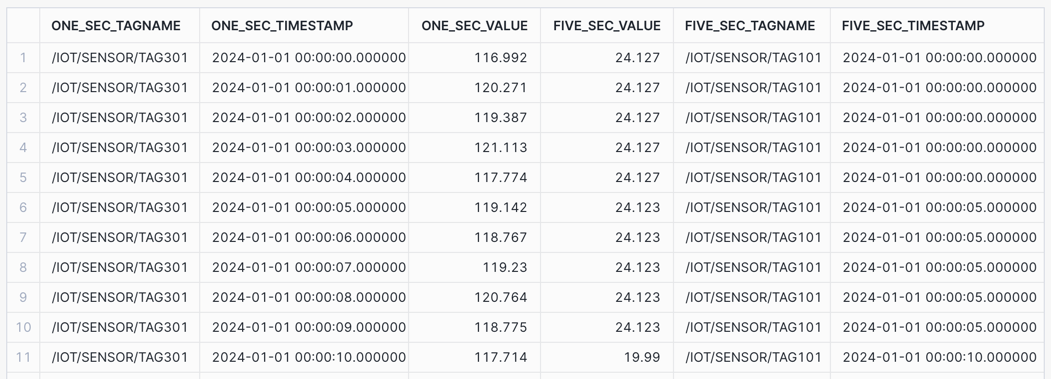
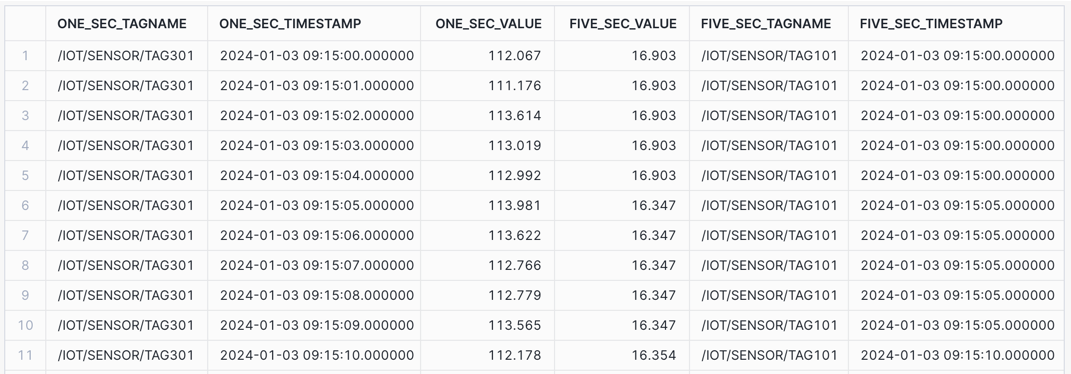
Quickstart updates

diff --git a/site/sfguides/src/getting_started_with_time_series_using_snowflake_streaming_sis_ml_notebooks/getting_started_with_time_series_using_snowflake_streaming_sis_ml_notebooks.md b/site/sfguides/src/getting_started_with_time_series_using_snowflake_streaming_sis_ml_notebooks/getting_started_with_time_series_using_snowflake_streaming_sis_ml_notebooks.md
@@ -30,7 +30,7 @@ Upon completing this quickstart lab, you will have learned how to perform time s
 
 ### What You'll Build
 
-By the end of this lab you will have an **end-to-end streaming Time Series Analysis solution**, with a front-end application deployed using Streamlit in Snowflake.
+By the end of this lab you will have an **end-to-end streaming Time Series Analysis solution**, with a front-end application deployed using **Streamlit in Snowflake**.
 
 <img src="assets/streamlit_video_summary.gif" />
 
@@ -56,7 +56,7 @@ The first step is to create a fork of the Lab GitHub repository.
 
 1. In a web browser log into your [Github](https://github.com/) account.
 
-2. Open [Getting Started with Time Series in Snowflake associated GitHub Repository](https://github.com/Snowflake-Labs/sfguide-getting-started-with-time-series-using-snowflake-streaming-sis-ml-notebooks). 
+2. Open [Getting Started with Time Series Analytics for IoT in Snowflake associated GitHub Repository](https://github.com/Snowflake-Labs/sfguide-getting-started-with-time-series-using-snowflake-streaming-sis-ml-notebooks). 
     - This repository contains all the code you need to successfully complete this quickstart guide.
 
 3. Click on the **"Fork"** button near the top right.
@@ -140,7 +140,7 @@ To activate the virtual environment:
 The terminal prompt should now show a prefix `(hol-timeseries)` to confirm the **hol-timeseries** virtual environment is activated.
 
 
-### Step 4 - Update Snowflake Account Connection Identifiers in Lab Files
+### Step 4 - Update Snowflake Connection Account Identifiers in Lab Files
 
 1. Login to your Snowflake account using a browser 
 
@@ -157,7 +157,8 @@ The terminal prompt should now show a prefix `(hol-timeseries)` to confirm the *
 ```sql
 SELECT SYSTEM$ALLOWLIST();
 
--- Note down your Snowflake account identifier details
+-- Note down your Snowflake account identifier host detail
+-- where "type":"SNOWFLAKE_DEPLOYMENT_REGIONLESS"
 -- <account_identifier>.snowflakecomputing.com
 ```
 
@@ -220,7 +221,7 @@ SELECT SYSTEM$ALLOWLIST();
 
 
 ### Step 7 - Retrieve the Snowflake Public Key
-As part of the GitHub Codespace setup, an OpenSSL Private Key-pair was generated in the VS Code `keys` directory.
+As part of the GitHub Codespace setup, an **OpenSSL Private Key-pair** will be generated in the **VS Code** `keys` directory.
 
 **Copy** the **PUBLIC KEY** value from the `keys/rsa_key.pub` file. This will be needed in the setup worksheet.
 
@@ -255,7 +256,7 @@ As part of the GitHub Codespace setup, an OpenSSL Private Key-pair was generated
 ## Setup Snowflake Resources
 Duration: 5
 
-Create the foundational Snowflake Objects for this lab.
+#### Create the Foundational Snowflake Objects for this Lab
 
 This includes:
 - Role: **ROLE_HOL_TIMESERIES** - role used for working throughout the lab
@@ -383,9 +384,9 @@ SETUP SCRIPT COMPLETED
 ## Snowpipe Streaming Ingestion
 Duration: 10
 
-With the foundational objects setup, we can now deploy a staging table to stream time series data into Snowflake via a Snowpipe Streaming client.
+With the foundational objects setup, we can now **deploy a staging table** to stream time series data into Snowflake via a Snowpipe Streaming client.
 
-For this lab a Java IOT Simulator Client application has been created to stream IoT sensor readings into Snowflake.
+For this lab a **Java IOT Simulator Client** application has been created to stream IoT sensor readings into Snowflake.
 
 <img src="assets/snowpipe_streamingest.png" />
 
@@ -429,7 +430,7 @@ The IoT data will be streamed into Snowflake in a similar [schema format as Kafk
 
 ### INFO: Snowpipe Streaming Ingest Client SDK
 
-Snowflake provides an [Ingest Client SDK](https://mvnrepository.com/artifact/net.snowflake/snowflake-ingest-sdk) in Java that allows applications, such as Kafka, to stream rows of data into a Snowflake table at low latency.
+Snowflake provides an [Ingest Client SDK](https://mvnrepository.com/artifact/net.snowflake/snowflake-ingest-sdk) in Java that allows applications, such as Kafka Connectors, to stream rows of data into a Snowflake table at low latency.
 
 <img src="assets/data-load-snowpipe-streaming.png" />
 
@@ -479,7 +480,7 @@ The query should return a single channel `CHANNEL_1_TEST` opened to the `RAW_TS_
 
 <img src="assets/snowpipe_channeltest.png" />
 
-With a channel now opened to the table we are ready to stream data into the table!
+**With a channel now opened to the table we are ready to stream data into the table.**
 
 
 ### Step 3 - Load a Simulated IoT Data Set
@@ -488,9 +489,9 @@ With the channel connection being successful, we can now load the IoT data set, 
 
 <img src="assets/snowpipe_streamingclient.png" />
 
-The simulated IoT dataset contains six sensor device tags at different frequencies, within a single **namespace** called **"IOT"**.
+The simulated IoT dataset contains six sensor devices at various frequencies, with each device being assigned a unique Tag Names within a single **namespace** called **"IOT"**.
 
-| **NAMESPACE** | **TAGNAME** | **FREQUENCY** | **UNITS** | **DATA_TYPE** | **TYPE** |
+| **Namespace** | **Tag Name** | **Frequency** | **Units** | **Data Type** | **Sensor Type** |
 | --- | --- | --- | --- | --- | --- |
 | IOT | TAG101 | 5 SEC | PSI | DOUBLE | Pressure Gauge |
 | IOT | TAG201 | 10 SEC | RPM | DOUBLE | Motor RPM |
@@ -582,7 +583,7 @@ Along with setting up Dynamic Tables for continuous loading, we'll also deploy s
 
 ### INFO: Dynamic Tables
 
-[Dynamic Tables](https://docs.snowflake.com/en/user-guide/dynamic-tables-intro) are a declarative way of defining your data pipeline in Snowflake. It's a Snowflake table which is defined as a query to continuously and automatically materialize the result of that query as a table. Dynamic Tables can join and aggregate across **multiple source objects** and **incrementally update** results as sources change.
+[Dynamic Tables](https://docs.snowflake.com/en/user-guide/dynamic-tables-intro) are a declarative way of defining your data pipeline in Snowflake. It's a Snowflake table which is **defined as a query to continuously and automatically materialize the result of that query as a table**. Dynamic Tables can join and aggregate across **multiple source objects** and **incrementally update** results as sources change.
 
 Dynamic Tables can also be chained together to create a DAG for more complex data pipelines.
 
@@ -647,7 +648,7 @@ QUALIFY ROW_NUMBER() OVER (PARTITION BY UPPER(CONCAT('/', SRC.RECORD_METADATA:he
 
 > aside positive
 > 
->  **Dynamic Tables** have a [TARGET_LAG](https://docs.snowflake.com/en/user-guide/dynamic-tables-refresh#label-dynamic-tables-understand-dt-lag) parameter, which defines how out of date the data can be before a refresh is automatically triggered. In this case, we have configured the Dynamic Tables to have a TARGET_LAG of 1 minute. 
+>  **Dynamic Tables** have a [TARGET_LAG](https://docs.snowflake.com/en/user-guide/dynamic-tables-refresh#label-dynamic-tables-understand-dt-lag) parameter, which defines a **target “freshness”** for the  data. In this case, we have configured the Dynamic Tables to have a TARGET_LAG of 1 minute, so we want the Dynamic Table to **update within 1 minute of the base tables being updated**.
 >
 
 
@@ -730,7 +731,7 @@ FROM HOL_TIMESERIES.TRANSFORM.DT_TS_TAG_READINGS READ;
 ## Time Series Analysis
 Duration: 20
 
-Now that we have created the analytics views, we can start to query the data using Snowflake native time series functions.
+Now that we have created the analytics views, we can start to query the data using **Snowflake native time series functions**.
 
 <img src="assets/analysis_overview.png" />
 
@@ -1186,9 +1187,11 @@ EXCEEDANCES in equipment operating limits over periods of time, such as a maximu
 
 ### Downsampling Time Series Data
 
-Downsampling is used to decrease the frequency of time samples, such as from seconds to minutes, by placing time series data into fixed time intervals using aggregate operations on the existing values within each time interval.
+Downsampling is used to **decrease the frequency of time samples**, such as from seconds to minutes, by placing time series data into fixed time intervals using aggregate operations on the existing values within each time interval.
 
-**Time Binning - 5 min Aggregate**: Create a downsampled time series data set with 5 minute aggregates, showing the **START and END timestamp label** of each interval.
+**Time Binning - 5 min Aggregate**: Consider a use case where you want to obtain a broader view of a high frequency pressure gauge, by aggregating data into evenly spaced intervals to find trends over time.
+
+Create a downsampled time series data set with 5 minute aggregates, showing the **START and END timestamp label** of each interval.
 
 ```sql
 /* TIME BINNING - 5 min AGGREGATE with START and END label
@@ -1219,12 +1222,16 @@ ORDER BY TAGNAME, START_TIMESTAMP;
 
 ### Aligning Time Series Data
 
-Often you will need to align two data sets that may have differing time frequencies. To do this you can utilize the Time Series ASOF join to pair closely matching records based on timestamps.
+Often you will need to **align two data sets** that may have differing time frequencies. To do this you can utilize the **Time Series ASOF JOIN** to pair closely matching records based on timestamps.
 
-**Joining Time Series Data with ASOF JOIN**: Using the `ASOF JOIN`, join two data sets by applying a `MATCH_CONDITION` to pair closely aligned timestamps and values.
+**Joining Time Series Data with ASOF JOIN**: Consider the use case where you want to align a one second and five second pressure gauge to determine if there is a correlation.
+
+Using the `ASOF JOIN`, join two data sets by applying a `MATCH_CONDITION` to pair closely aligned timestamps and values.
 
 ```sql
 /* ASOF JOIN - Align a 1 second tag with a 5 second tag
+Consider the use case where you want to align a one second and five second pressure gauge to determine if there is a correlation.
+
 Using the `ASOF JOIN`, join two data sets by applying a `MATCH_CONDITION` to pair closely aligned timestamps and values.
 */
 SELECT ONE_SEC.TAGNAME AS ONE_SEC_TAGNAME, ONE_SEC.TIMESTAMP AS ONE_SEC_TIMESTAMP, ONE_SEC.VALUE_NUMERIC AS ONE_SEC_VALUE, FIVE_SEC.VALUE_NUMERIC AS FIVE_SEC_VALUE, FIVE_SEC.TAGNAME AS FIVE_SEC_TAGNAME, FIVE_SEC.TIMESTAMP AS FIVE_SEC_TIMESTAMP
@@ -1237,13 +1244,21 @@ ASOF JOIN (
     ) FIVE_SEC
 MATCH_CONDITION(ONE_SEC.TIMESTAMP >= FIVE_SEC.TIMESTAMP)
 WHERE ONE_SEC.TAGNAME = '/IOT/SENSOR/TAG301'
-AND ONE_SEC.TIMESTAMP >= '2024-01-01 00:00:00'
-AND ONE_SEC.TIMESTAMP < '2024-01-01 00:01:00'
+AND ONE_SEC.TIMESTAMP >= '2024-01-03 09:15:00'
+AND ONE_SEC.TIMESTAMP <= '2024-01-03 09:45:00'
 ORDER BY ONE_SEC.TIMESTAMP;
 ```
 
 <img src="assets/analysis_query_asof_align.png" />
 
+### CHART: Aligned Time Series Data
+
+1. Select the `Chart` sub tab below the worksheet.
+2. Under Data set the first Data column to `ONE_SEC_VALUE` with an Aggregation of `Max`.
+3. Set the X-Axis to `ONE_SEC_TIMESTAMP` and a Bucketing of `Second`
+3. Select `+ Add column` and select `FIVE_SEC_VALUE` and set Aggregation to `Max`.
+
+<img src="assets/analysis_chart_align.png" />
 
 ### Gap Filling
 
@@ -1329,6 +1344,11 @@ CREATE OR REPLACE SNOWFLAKE.ML.FORECAST HOL_TIMESERIES_FORECAST(
 );
 ```
 
+> aside negative
+> 
+>  Training the Time Series Forecast model may take 2-3 minutes. Indicative training times available at [Training on Multi-Series Data](https://docs.snowflake.com/user-guide/snowflake-cortex/ml-functions/forecasting#training-on-multi-series-data).
+>
+
 3. Test Forecasting model output for one day.
 
 ```sql
@@ -1341,7 +1361,7 @@ FORECASTING_PERIODS - The number of periods being forecasted
 CALL HOL_TIMESERIES_FORECAST!FORECAST(SERIES_VALUE => TO_VARIANT('/IOT/SENSOR/TAG401'), FORECASTING_PERIODS => 1440);
 ```
 
-4. Create a forecast analysis combining historical data with forecast data.
+4. Create a forecast analysis combining historical data with forecast data using [RESULT_SCAN](https://docs.snowflake.com/en/sql-reference/functions/result_scan).
 
 ```sql
 /* FORECAST COMBINED - Combined ACTUAL and FORECAST data
@@ -1383,7 +1403,7 @@ ORDER BY DATASET, TAGNAME, TIMESTAMP;
 
 > aside positive
 > 
->  You have now run through several **Time Series Analysis** queries, we can now look at creating Time Series Functions.
+>  You have now run through several **Time Series Analysis** queries, we can now look at creating **Time Series Functions**.
 >
 
 <!-- ------------------------ -->
@@ -1519,7 +1539,7 @@ $$;
 
 > aside positive
 > 
->  The **INTERPOLATE Table Function** is using the [ASOF JOIN](https://docs.snowflake.com/en/sql-reference/constructs/asof-join) for each time interval to look both backwards (LAST_VALUE) and forwards (NEXT_VALUE) in time, to calculate the time and value difference at each time interval, which is then used to generate a smooth linear interpolated value.
+>  The **INTERPOLATE Table Function** is using the [ASOF JOIN](https://docs.snowflake.com/en/sql-reference/constructs/asof-join) for each time interval to **look both backwards (LAST_VALUE) and forwards (NEXT_VALUE) in time**, to calculate the time and value difference at each time interval, which is then used to generate a smooth linear interpolated value.
 >
 > The **INTERPOLATE Table Function** will return both **linear interpolated values** and the **last observed value carried forward (LOCF)**.
 >
@@ -1562,7 +1582,7 @@ $$;
 
 > aside positive
 > 
->  The **INTERPOLATE PROCEDURE** can calculate the number of time buckets within a time boundary based on the interval specified. It then calls the **INTERPOLATE** table function, and depending on the **V_INTERP_TYPE** variable, it will return the last observed value carried forward (LOCF) or linear interpolated values (default).
+>  The **INTERPOLATE PROCEDURE** can calculate the number of time buckets within a time boundary based on the interval specified. It then calls the **INTERPOLATE** table function, and depending on the **V_INTERP_TYPE** variable, it will return either the last observed value carried forward (LOCF) or linear interpolated values (default).
 >
 
 4. Run the **LTTB Downsampling Table Function** Script
@@ -1605,7 +1625,7 @@ $$;
 
 > aside positive
 > 
->  The **Largest Triangle Three Buckets (LTTB)** algorithm is a time series downsampling algorithm that reduces the number of visual data points, whilst retaining the shape and variability of the time series data. It's useful for reducing large time series data sets for charting purposes where the consumer system may have reduced memory resources.
+>  The **Largest Triangle Three Buckets (LTTB)** algorithm is a time series downsampling algorithm that **reduces the number of visual data points, whilst retaining the shape and variability of the time series data**. It's useful for reducing large time series data sets for charting purposes where the consumer system may have reduced memory resources.
 >
 > This is a **Snowpark Python** implementation using the **plotly-resampler** package.
 >
@@ -1633,13 +1653,17 @@ This section will be executed within a Snowflake Snowsight Worksheet.
 
 ### Interpolate Query
 
+The Interpolation table function will return both the **last observed value carried forward (LOCF) and linear interpolated values (default)**.
+
 ```sql
 -- Set role, context, and warehouse
 USE ROLE ROLE_HOL_TIMESERIES;
 USE HOL_TIMESERIES.ANALYTICS;
 USE WAREHOUSE HOL_ANALYTICS_WH;
 
--- Directly Call Table Function
+/* INTERPOLATE TABLE FUNCTION
+The Interpolation table function will return both the last observed value carried forward (LOCF) and linear interpolated values (default).
+*/
 SELECT * FROM TABLE(HOL_TIMESERIES.ANALYTICS.FUNCTION_TS_INTERPOLATE('/IOT/SENSOR/TAG401', '2024-01-01 12:10:00'::TIMESTAMP_NTZ, '2024-01-01 13:10:00'::TIMESTAMP_NTZ, 10, 362)) ORDER BY TAGNAME, TIMESTAMP;
 ```
 
@@ -1657,8 +1681,16 @@ SELECT * FROM TABLE(HOL_TIMESERIES.ANALYTICS.FUNCTION_TS_INTERPOLATE('/IOT/SENSO
 
 ### Interpolation - Last Observed Value Carried Forward (LOCF) Query
 
+The Interpolation Procedure will accept a start time and end time, along with a bucket interval size in seconds.
+It will then calculate the number of buckets within the time boundary, and call the Interpolate table function.
+
 ```sql
--- Call Interpolate Procedure with Taglist, Start Time, End Time, and Intervals - LOCF Interpolate
+/* INTERPOLATE PROCEDURE - LOCF
+The Interpolation Procedure will accept a start time and end time, along with a bucket interval size in seconds.
+It will then calculate the number of buckets within the time boundary, and call the Interpolate table function.
+
+Call Interpolate Procedure with Taglist, Start Time, End Time, and Intervals - LOCF Interpolate
+*/
 CALL HOL_TIMESERIES.ANALYTICS.PROCEDURE_TS_INTERPOLATE(
     -- V_TAGLIST
     '/IOT/SENSOR/TAG401',
@@ -1683,8 +1715,14 @@ CALL HOL_TIMESERIES.ANALYTICS.PROCEDURE_TS_INTERPOLATE(
 
 ### Interpolation - Linear Query
 
+Similar to the Interpolation - LOCF procedure call, this will create a Linear Interpolation return.
+
 ```sql
--- Call Interpolate Procedure with Taglist, Start Time, End Time, and Intervals - LINEAR Interpolate
+/* INTERPOLATE PROCEDURE - LOCF
+Similar to the Interpolation - LOCF procedure call, this will create a Linear Interpolation return.
+
+Call Interpolate Procedure with Taglist, Start Time, End Time, and Intervals - LINEAR Interpolate
+*/
 CALL HOL_TIMESERIES.ANALYTICS.PROCEDURE_TS_INTERPOLATE(
     -- V_TAGLIST
     '/IOT/SENSOR/TAG401',
@@ -1709,14 +1747,16 @@ CALL HOL_TIMESERIES.ANALYTICS.PROCEDURE_TS_INTERPOLATE(
 
 ### LTTB Query
 
-The **Largest Triangle Three Buckets (LTTB)** algorithm is a time series downsampling algorithm that reduces the number of visual data points.
+The **Largest Triangle Three Buckets (LTTB)** algorithm is a time series downsampling algorithm that reduces the number of visual data points, whilst retaining the shape and variability of the time series data.
 
-Starting with a **RAW** query we can see the **LTTB** function in action, where the function will downsample a **day of data for a one second tag**, 86400 data points to 500 whilst keeping the context of the values.
+Starting with a **RAW** query we can see the **LTTB** function in action, where the function will **downsample two hours of data for a one second tag**, 7200 data points to 500 whilst keeping the shape and variability of the values.
 
 **RAW Query**
 
 ```sql
--- RAW
+/* RAW - 2 HOURS OF 1 SEC DATA
+Source of downsample - 7200 data points
+*/
 SELECT TAGNAME, TIMESTAMP, VALUE_NUMERIC as VALUE
 FROM HOL_TIMESERIES.ANALYTICS.TS_TAG_READINGS
 WHERE TIMESTAMP > '2024-01-09 21:00:00'
@@ -1740,7 +1780,12 @@ ORDER BY TAGNAME, TIMESTAMP;
 We can now pass the same data into the **LTTB table function** and request 500 data points to be returned.
 
 ```sql
--- LTTB
+/* LTTB - DOWNSAMPLE TO 500 DATA POINTS
+We can now pass the same data into the LTTB table function and request 500 data points to be returned.
+
+The DATA subquery sets up the data set, and this is cross joined with the LTTB table function,
+with an input of TIMESTAMP, VALUE, and the downsample size of 500.
+*/
 SELECT DATA.TAGNAME, LTTB.TIMESTAMP::VARCHAR::TIMESTAMP_NTZ AS TIMESTAMP, LTTB.VALUE 
 FROM (
     SELECT TAGNAME, TIMESTAMP, VALUE_NUMERIC as VALUE
@@ -1759,7 +1804,7 @@ ORDER BY TAGNAME, TIMESTAMP;
 2. Under Data select `VALUE` and set the Aggregation to `Max`.
 3. Under Data select `TIMESTAMP` and set the Bucketing to `Second`. 
 
-**500 Data Points**
+**500 Data Points - The shape and variability of the values are retained, when compared to the 7200 data point RAW chart**.
 
 <img src="assets/function_chart_lttb_downsampled.png" />
 
@@ -1773,7 +1818,7 @@ ORDER BY TAGNAME, TIMESTAMP;
 ## Build Your Time Series Application in Streamlit
 Duration: 15
 
-After completing the analysis of the time series data that was streamed into Snowflake, we are now ready to **deliver a Time Series Analytics application** for end users to easily consume time series data. For this purpose we are going to use Streamlit.
+After completing the analysis of the time series data that was streamed into Snowflake, we are now ready to **deliver a Time Series Analytics application** for end users to easily consume time series data. For this purpose we are going use a **Streamlit in Snowflake** application, deployed using **Snowflake CLI**.
 
 <img src="assets/streamlit_overview.png" />
 
@@ -1962,7 +2007,7 @@ Open the **Streamlit Application**:
 
 ### Step 6 - Start a Continuous Simulated Stream
 
-We can now start a continuous stream of data into Snowflake, similar to the initial streaming load, to simulate IoT device data streaming in near real-time to Snowflake.
+We can now **start a continuous stream of data into Snowflake**, similar to the initial streaming load, to simulate IoT device **data streaming in near real-time** to Snowflake.
 
 <img src="assets/model_streamingclient.png" />
 
@@ -1987,7 +2032,7 @@ In the **GitHub Codespace VS Code**:
 
 4. Back **in the Streamlit application** try enabling `Auto Refresh` by `Expanding Refresh Mode > Toggle Auto Refresh`
 
-    - The charts and data should now start to automatically update with new data streaming into Snowflake every minute.
+    - The charts and data should now start to **automatically update with new data streaming into Snowflake every minute**.
 
 5. Select the **TS Raw** page to see the raw data
 
